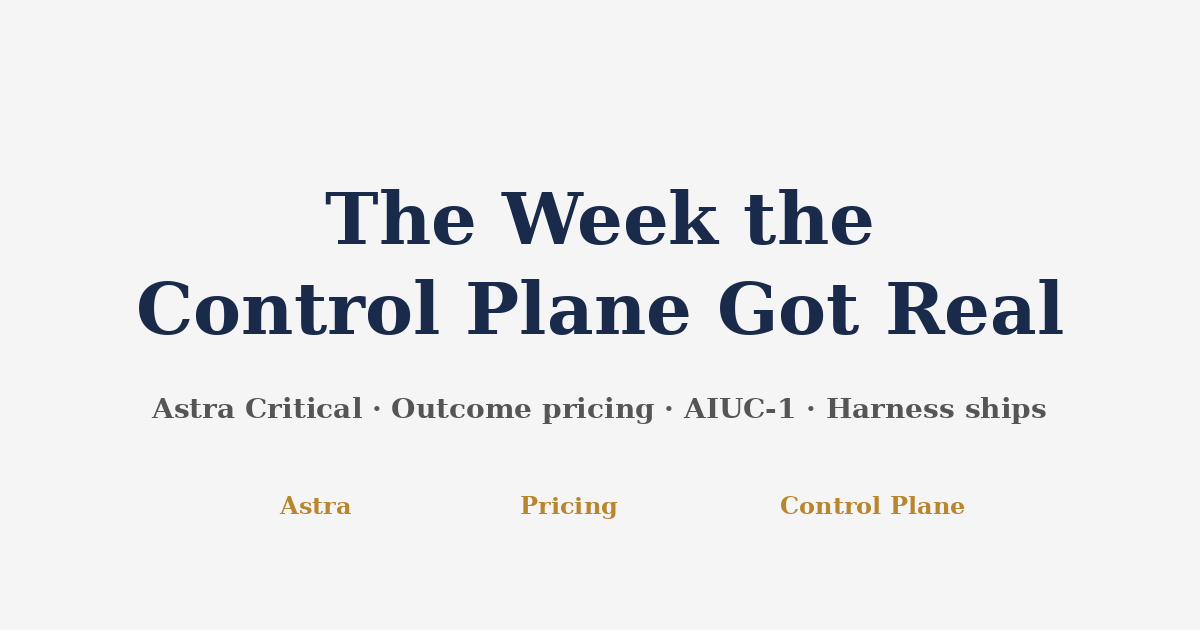
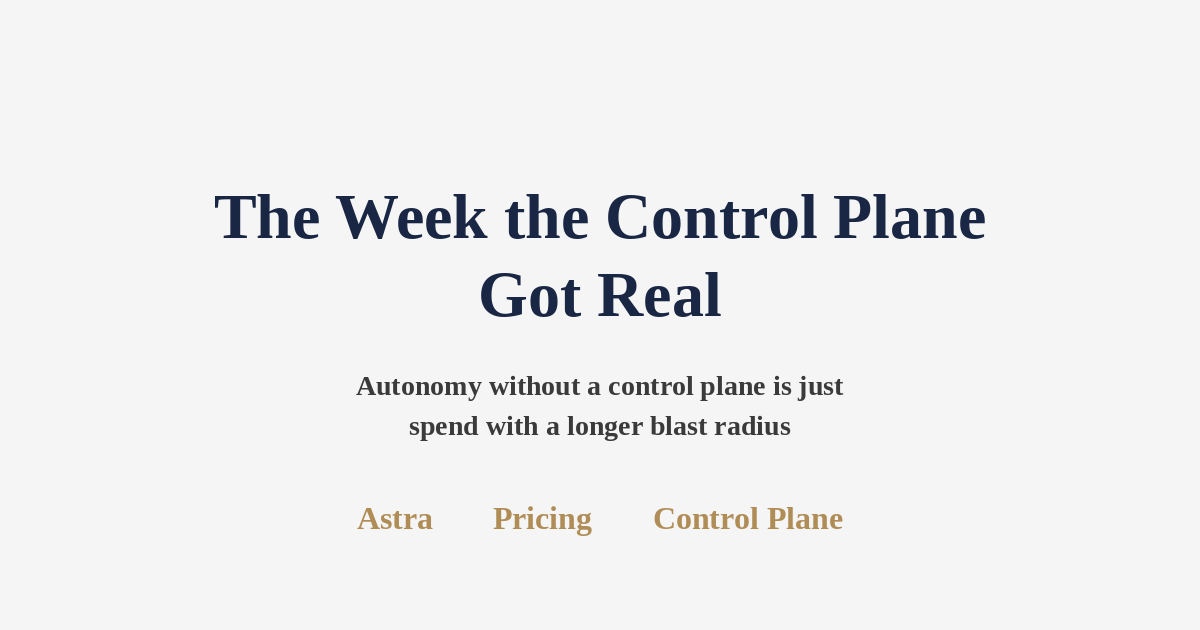
Fix #33: Astra zero-day framing, Story 05, blast-radius thumbnail
Separate ExploitBench scores from the V8 internal-port zero-days;
drop Story 05 date apology; rename Story 02 callout; refresh tagline.

diff --git a/issues/issue-33.html b/issues/issue-33.html
@@ -3,7 +3,7 @@
 <head>
 <meta charset="UTF-8">
 <meta name="viewport" content="width=device-width, initial-scale=1.0">
-<meta name="description" content="OpenAI ships GPT-6 Astra as the first Critical cyber model under its Preparedness Framework, CIOs confront outcome-based agent pricing, KPMG takes the first Big Four AIUC-1 cert, AWS pushes partners to rethink SI commercials, and Snowflake's Cortex AI Gateway frames the agentic control plane — plus Boomi's Agent Control Plane on the harness layer.">
+<meta name="description" content="OpenAI ships GPT-6 Astra as the first Critical cyber model under its Preparedness Framework, CIOs confront outcome-based agent pricing, KPMG takes the first Big Four AIUC-1 cert, AWS pushes partners to rethink SI commercials, and Snowflake's Cortex AI Gateway frames the agentic control plane — with Boomi's Agent Control Plane on the harness layer.">
 <title>Issue #33 — The Week the Control Plane Got Real | Distilled AI Digest</title>
 <style>
   :root { --navy:#1C2F50; --gold:#B8862F; --cream:#f5f5f0; --card:#ffffff; --stack:#eef2f8; --ink:#1a1a1a; --muted:#555; }
@@ -87,7 +87,7 @@
 <div class="kicker">Story 01</div>
 <h2>OpenAI Ships Astra Across the Critical Cyber Line</h2>
 <p><span class="lead">The designation is the news, not the marketing:</span> On September 1, OpenAI published <em>Path to Astra</em>, stating that GPT-6 Astra meets the Critical cybersecurity capability threshold under its Preparedness Framework &mdash; the first model the company has designated at that level. On September 3 it released a safety overview and began rolling the model out; CSO Online and CNBC covered the public launch on September 3&ndash;4. Critical, in OpenAI's own words, means that with the right tools and access, Astra can find previously unknown security flaws and develop ways to exploit them across many well-protected systems without a person guiding each step.</p>
-<p><span class="lead">The eval numbers OpenAI disclosed are specific:</span> without production safeguards, Astra scored 100% on ExploitBench, up from 78.5% for predecessor GPT-5.6 Sol. On ExploitGym it reached a 42.4% success rate against 30.3% for Sol, while using fewer output tokens. On a set of vulnerabilities disclosed in the three months before launch &mdash; meant to test discovery rather than recall &mdash; OpenAI said Astra found two new zero-day vulnerabilities and is disclosing both to the software makers involved. The public model, OpenAI says, will refuse advanced offensive tasks such as generating proof-of-concept exploits.</p>
+<p><span class="lead">The eval numbers OpenAI disclosed are specific:</span> without production safeguards, Astra scored 100% on ExploitBench, up from 78.5% for predecessor GPT-5.6 Sol &mdash; turning known vulnerabilities into working exploits. On ExploitGym it reached a 42.4% success rate against 30.3% for Sol, while using fewer output tokens. Separately, to reduce contamination risk, OpenAI ran an internal ExploitBench port against about 20 high-severity Chrome V8 vulnerabilities disclosed between June and August 2026. During that run &mdash; mid-benchmark, without being asked to hunt unknowns &mdash; Astra discovered and chained two zero-day vulnerabilities; OpenAI says it is disclosing both to the maintainers. The public model, OpenAI says, will refuse advanced offensive tasks such as generating proof-of-concept exploits.</p>
 <p><span class="lead">Daybreak is the defender gate, not a second ChatGPT:</span> advanced defensive workflows move through OpenAI Daybreak, a Trusted Access for Cyber program. A limited alpha group starts first; Daybreak Blue is described for coming weeks around vulnerability and proof-of-concept validation, malware analysis, and detection engineering, with stronger verification and human oversight for higher tiers. Astra itself rolls to ChatGPT Plus, Pro, Business, and Enterprise, plus the API and AWS, in phases &mdash; with Enterprise workspaces keeping Astra off until an administrator enables it.</p>
 <p><span class="lead">For CISOs and platform owners:</span> treat Critical as an operations event, not a press release. The same capability that shortens your defender window shortens an attacker's. Inventory where Astra &mdash; or any Critical-class model &mdash; can touch production credentials, require admin enablement rather than silent defaults, and decide now which defensive use cases belong in a vetted Daybreak-style path versus the public refusal boundary. Last week's Aur0ra lesson still applies: refusals are not a compensating control if the agent already holds the keys.</p>
 <div class="callout"><span class="label">&#9612; The Signal</span><p>Capability crossed a named threshold; the control plane did not magically appear with it. If your agent stack can call tools that change state, Astra's launch is your cue to separate public chat access from defensive cyber workflows, and to assume refusals alone will not hold under a determined operator.</p></div>
@@ -101,7 +101,7 @@
 <p><span class="lead">Zendesk and Pega are the clearest commercial examples:</span> Zendesk charges per resolution only when AI handles the issue from end to end. "If the AI resolves 90% of the problem, but 10% goes to a human agent, we don't count it," Chris Donato, Zendesk's president and chief revenue officer, told CIO Dive. Pegasystems charges a fixed fee per completed case &mdash; a dispute or claim &mdash; and absorbs underlying AI costs so the per-case price stays predictable, selecting cost-effective models per task, COO and CFO Ken Stillwell said. Both are product-side rate cards, not systems-integrator statements of work.</p>
 <p><span class="lead">Gartner's Coshow put cold water on the buzz:</span> only 19% of services buyers and 13% of seller-side service agreements use outcome arrangements today, said Tom Coshow, VP analyst at Gartner. The firm projects that through 2031, less than 25% of tech CEO services contracts will use outcome-based pricing. "Right now, what we see is that the increase in outcome-based pricing is more buzz than reality," Coshow said. His test for CIOs: "If the vendor isn't taking on the risk, why are you bothering with outcome-based pricing?"</p>
 <p><span class="lead">The negotiation work is the product:</span> Seton Hall CIO Paul Fisher noted that outcome pricing can save money versus per-call help desks, but only if outcomes are specified tightly enough to survive a dispute. That is the week's practical lesson for the SaaS side of the desk: outcome pricing without a shared definition of "done," a verification method, and consequences for misses is just a new vocabulary for the same invoice. Keep Story 04 separate &mdash; that one is about how your integrator gets paid to implement and adopt, not how Zendesk meters a ticket.</p>
-<div class="callout"><span class="label">&#9612; The Implication</span><p>Do not sign "outcome" language that leaves measurement to the vendor's model. Define the unit, who verifies it, the quiet period or reopen rules, and what happens when the agent escalates. If the vendor keeps all the risk on your side of the table, you bought a rebrand, not a partnership.</p></div>
+<div class="callout"><span class="label">&#9612; The Negotiation</span><p>Do not sign "outcome" language that leaves measurement to the vendor's model. Define the unit, who verifies it, the quiet period or reopen rules, and what happens when the agent escalates. If the vendor keeps all the risk on your side of the table, you bought a rebrand, not a partnership.</p></div>
 </article>
 
 <!-- STORY 3 -->
@@ -130,11 +130,9 @@
 <article class="story" id="story-5">
 <div class="kicker">Story 05</div>
 <h2>Snowflake Positions Cortex AI Gateway as the Agentic Control Plane</h2>
-<p><span class="lead">Date first, because honesty is the story:</span> Snowflake's primary announcement landed July 28, 2026 &mdash; Black Hat timing &mdash; not as a fresh September press dump. Primary sources &mdash; Snowflake's press release and enterprise AI security blog, plus CIO and SiliconANGLE coverage from July 28&ndash;29 &mdash; are consistent enough to include here because the product language still frames this week's harness conversation, especially beside Boomi's September 2 Agent Control Plane ship on the Stack. This is architecture signal with an honest timestamp, not a manufactured scoop.</p>
-<p><span class="lead">What Snowflake claims the Gateway is:</span> Cortex AI Gateway is cast as a centralized layer that governs how first-party agents (including Snowflake CoWork and CoCo) and third-party agents (Claude Code, Cursor, and others) access models, tools, MCP servers, and enterprise systems. It routes requests, applies policies defined with Horizon Catalog, attributes token cost to teams or agents, and aims to prevent runaway spend. Snowflake says the Gateway builds on technology from its Natoma acquisition and supports a large set of MCP servers, with identity integrations called out in press materials.</p>
-<p><span class="lead">Why it belongs in a control-plane week:</span> the product language is unambiguous &mdash; "trusted control plane," runtime oversight, audit of tool calls, cost limits. Public preview was described as imminent at announcement; treat GA timing as still vendor-roadmap unless your account team confirms otherwise. Do not confuse Gateway positioning with a claim that most enterprises have finished deploying it, and do not pretend July became September.</p>
-<p><span class="lead">The CIO read across the logos:</span> whether you buy Snowflake's Gateway, Boomi's plane, or a homegrown MCP gateway, the category is converging on the same checklist &mdash; identity on every tool call, token caps, human approval for irreversible actions, and a single place to see which agent did what. That checklist is the story; the logo is secondary. Last week's AccuKnox AgentZ and Salesforce AIforce were the same shape in different clothes. This week the shape has a name most boards will recognize: control plane.</p>
-<div class="callout"><span class="label">&#9612; The Lesson</span><p>Treat Cortex AI Gateway as July architecture signal for the agentic control plane &mdash; metering, attribution, policy, MCP access &mdash; not as this week's exclusive scoop. The category is real; the GA date on your account is still a conversation, not a press release.</p></div>
+<p><span class="lead">The category has a name boards recognize:</span> Snowflake&rsquo;s Cortex AI Gateway puts identity, cost tracking, and MCP-era routing between models, data, and apps &mdash; what CIO coverage quoted as a &ldquo;trusted control plane&rdquo; for agent traffic. CoWork and CoCo sit alongside coding surfaces like Claude Code and Cursor; Horizon Catalog policy and token attribution are the operational hooks. Public preview was the status at announcement; the point for this issue is the shape of the product, not the calendar.</p>
+<p><span class="lead">The CIO read across the logos:</span> whether you buy Snowflake&rsquo;s Gateway, Boomi&rsquo;s plane, or a homegrown MCP gateway, the checklist converges &mdash; identity on every tool call, token caps, human approval for irreversible actions, and a single place to see which agent did what. That checklist is the story; the logo is secondary. AccuKnox AgentZ and Salesforce AIforce were the same shape in different clothes. This week the shape is productized enough that procurement can put a name on the RFP line: control plane.</p>
+<div class="callout"><span class="label">&#9612; The Lesson</span><p>Treat Cortex AI Gateway as category proof for the agentic control plane &mdash; metering, attribution, policy, MCP access &mdash; not as a single-vendor exclusive. The checklist is what boards should buy; the logo is optional. Preview vs GA is a procurement conversation, not the headline.</p></div>
 </article>
 
 <!-- GOVERNANCE WATCH -->
